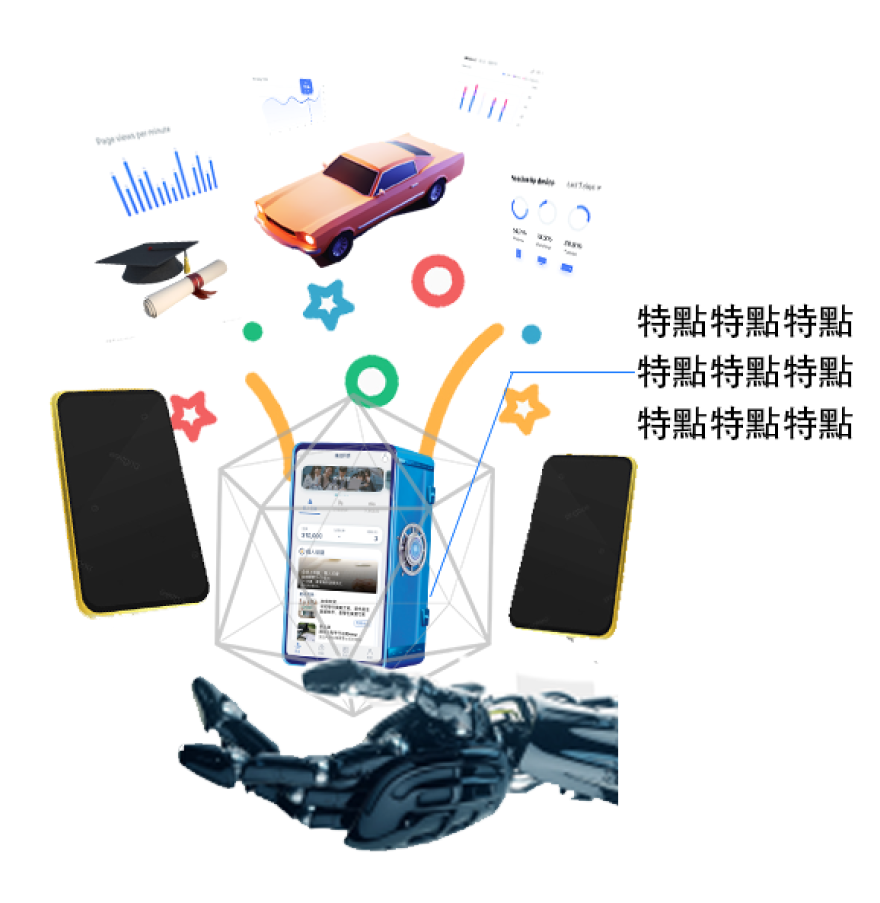
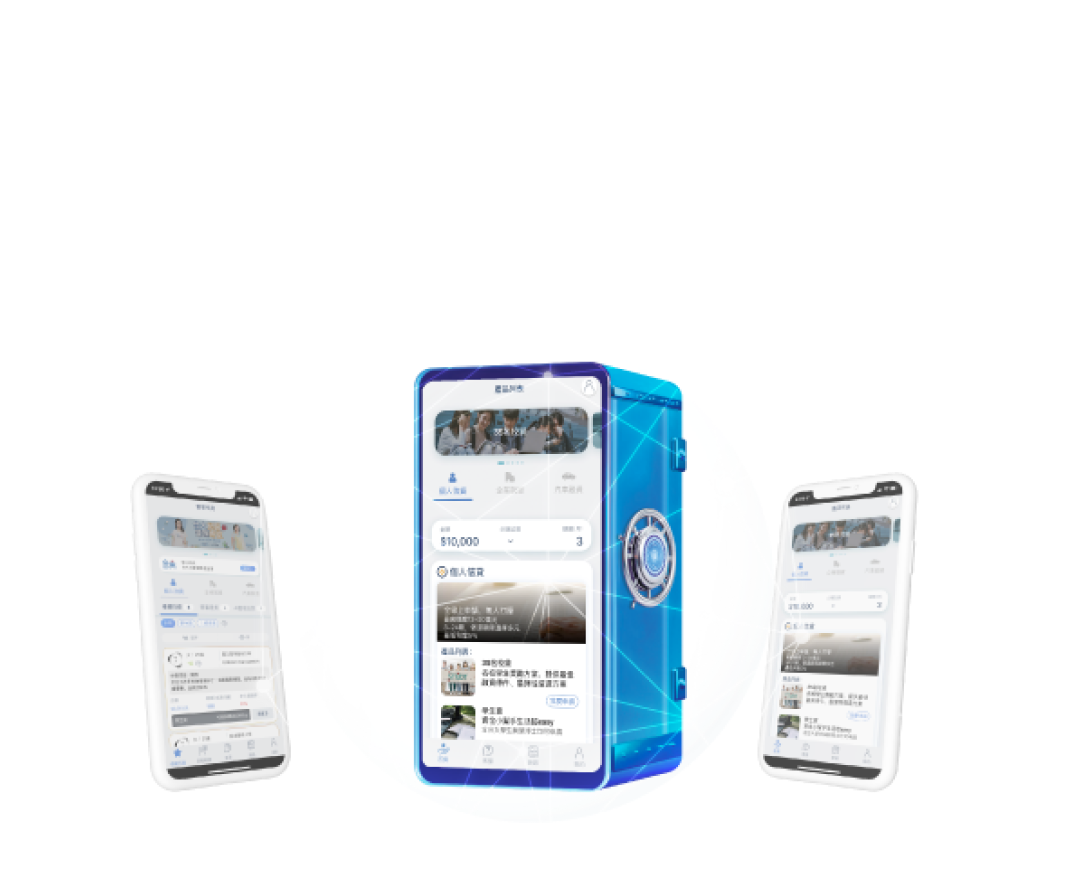
feature: 補上背景

diff --git a/resources/js/frontdesk/pages/alesis-index.vue b/resources/js/frontdesk/pages/alesis-index.vue
@@ -17,18 +17,6 @@
           </div>
           <div class="product-item">
             <div class="card">
-              <div class="card-title">3S名校貸</div>
-              <div class="card-content">
-                <div class="card-subtitle">額度最高18萬</div>
-                <div class="card-image p2"></div>
-                <router-link to="/3s-college-loan" class="card-link">
-                  了解更多
-                </router-link>
-              </div>
-            </div>
-          </div>
-          <div class="product-item">
-            <div class="card">
               <div class="card-title">資訊工程師貸</div>
               <div class="card-content">
                 <div class="card-subtitle">額度最高30萬</div>
@@ -63,7 +51,7 @@
               </div>
             </div>
           </div>
-          <div class="product-item">
+          <!-- <div class="product-item">
             <div class="card">
               <div class="card-title">信保專案(銀行)</div>
               <div class="card-content">
@@ -74,7 +62,7 @@
                 </div>
               </div>
             </div>
-          </div>
+          </div> -->
           <div class="product-item">
             <div class="card">
               <div class="card-title">企業貸款</div>
@@ -118,7 +106,7 @@
             集人才，打造綠色金融科技環境，善用AI技術首創自動化風控審核，無人化P2P借貸融資系統。
           </div>
         </div>
-        <div class="block-title mt-3">
+        <div class="block-title">
           年輕人的金融科技平台、簡單快速安全隱私、創造金融新生態
         </div>
         <div class="block-info d-block">
@@ -131,6 +119,9 @@
             為輔助，提供最人性友善流暢的APP使用者介面，全程AI無人化自動風控審核，運用金融科技技術加快速度、提高安全、保護隱私，提供最有溫度的社群金融服務，讓社會資金運用更便利快速有效率，創造全新的金融生態圈。
           </span>
         </div>
+      </div>
+      <div class="wave">
+        <img src="@/asset/images/index/bg-white-wave.svg" alt="" />
       </div>
     </div>
     <div class="index-loan section">
@@ -162,26 +153,33 @@
       </div>
     </div>
     <div class="index-service section">
+      <div class="wave reverse">
+        <img src="@/asset/images/index/bg-white-wave.svg" alt="" />
+      </div>
       <div class="block-content">
         <div class="block-title">我們的服務</div>
         <div class="block-info">提供多元個人及企業融資貸款管道平台</div>
         <div class="row no-gutters service-imgs">
           <img id="service-1" src="@/asset/images/index/service-1.png" />
+          <img id="service-2" src="@/asset/images/index/service-2.png" />
           <div class="service-groups">
             <div class="group">
-              <div class="item">簡單</div>
-              <div class="item">快速</div>
-              <div class="item">方便</div>
+              <div class="item">競標即時撮合</div>
+              <div class="item">無卡分期系統</div>
+              <div class="item">債權轉讓</div>
+              <div class="item">貸後管理系統</div>
             </div>
             <div class="group">
-              <div class="item">安全</div>
-              <div class="item">便利</div>
-              <div class="item">輕鬆</div>
+              <div class="item">分秒計息系統</div>
+              <div class="item">虛擬帳戶金流管理系統</div>
+              <div class="item">線上對保撥款系統</div>
+              <div class="item">自動核貸上架系統</div>
             </div>
             <div class="group">
-              <div class="item">特點</div>
-              <div class="item">特點</div>
-              <div class="item">特點</div>
+              <div class="item">風控信評額度系統</div>
+              <div class="item">反洗錢系統</div>
+              <div class="item">關係人歸戶系統</div>
+              <div class="item">反詐欺系統</div>
             </div>
           </div>
         </div>
@@ -298,7 +296,7 @@
               <div class="card">
                 <div class="card-body">
                   <div class="card-cover">
-                    <img src="@/asset/images/index/handshake2.png" alt="" />
+                    <img src="@/asset/images/index/link-1.png" alt="" />
                   </div>
                   <div class="card-title">獲得多家銀行搶先合作</div>
                   <div class="card-divider"></div>
@@ -310,7 +308,7 @@
               <div class="card">
                 <div class="card-body">
                   <div class="card-cover">
-                    <img src="@/asset/images/index/handshake2.png" alt="" />
+                    <img src="@/asset/images/index/dating-app-1.png" alt="" />
                   </div>
                   <div class="card-title">最年輕的借款APP</div>
                   <div class="card-divider"></div>
@@ -322,7 +320,7 @@
               <div class="card">
                 <div class="card-body">
                   <div class="card-cover">
-                    <img src="@/asset/images/index/handshake2.png" alt="" />
+                    <img src="@/asset/images/index/planet-earth-1.png" alt="" />
                   </div>
                   <div class="card-title">ESG綠色金融科技平台</div>
                   <div class="card-divider"></div>
@@ -370,8 +368,8 @@
       <div class="charity">
         <div class="block-content">
           <div class="block-title">慈善公益</div>
-          <div class="row no-gutters">
-            <div class="col-6">
+          <div class="row no-gutters justify-content-center">
+            <div class="col-5">
               <div class="info-title">愛心100，捐款100</div>
               <div class="info-content">
                 攜手台大兒童醫院、台大兒童健康基金會、愛心大使張鈞甯、愛心主持鍾欣凌，聯合勸募樂捐幫助台灣弱勢兒童，維護孩子們的健康
@@ -388,7 +386,12 @@
                 ></iframe>
               </div>
             </div>
-            <div class="col-6"></div>
+            <div class="col-5 d-flex justify-content-center">
+              <img
+                src="@/asset/images/index/Group1251.png"
+                style="height: 420px"
+              />
+            </div>
           </div>
         </div>
       </div>
@@ -837,6 +840,19 @@ export default {
   max-width: 1400px;
   margin: 0 auto;
 }
+.wave {
+  position: absolute;
+  bottom: 0;
+  left: -30px;
+  height: 100px;
+  overflow: hidden;
+  &.reverse {
+    top: 0;
+    left: initial;
+    right: -30px;
+    transform: rotate(180deg);
+  }
+}
 .index-intro {
   background-image: url('~images/index/index-header-bg.png');
   background-position: center;
@@ -856,7 +872,7 @@ export default {
       display: grid;
       grid-template-rows: 160px 160px;
       gap: 20px;
-      grid-template-columns: repeat(4, 230px);
+      grid-template-columns: repeat(3, 230px);
     }
     .product-item {
       .card {
@@ -958,14 +974,20 @@ export default {
   }
 }
 .index-concept {
-  padding: 40px;
+  position: relative;
+  padding: 80px;
   background-color: #036eb7;
+  background-image: url('~images/index/concept-bg.png');
+  background-repeat: no-repeat;
+  background-size: cover;
+  height: 1044px;
   .block-content {
     padding: 0 50px;
     .block-title {
       font-weight: 500;
       font-size: 40px;
       line-height: 81px;
+      margin: 40px 0;
       color: #e6f5ff;
       text-align: center;
     }
@@ -1007,7 +1029,12 @@ export default {
   }
 }
 .index-loan {
+  position: relative;
   padding: 70px 70px;
+  background-image: url('~images/index/index-phone-bg.png');
+  background-repeat: no-repeat;
+  background-size: cover;
+  height: 1200px;
   .block-title {
     color: #036eb7;
     font-size: 32px;
@@ -1072,41 +1099,64 @@ export default {
     filter: alpha(opacity=20);
   }
   20% {
-    right: 125px;
+    right: 145px;
     opacity: 1;
     filter: alpha(opacity=0);
   }
   45% {
-    right: 125px;
+    right: 145px;
     opacity: 0;
     filter: alpha(opacity=0);
   }
 }
+@keyframes service-img {
+  0% {
+    margin: 30px auto;
+  }
+  50% {
+    margin: 0 auto;
+  }
+  100% {
+    margin: 30px auto;
+  }
+}
 .index-service {
+  position: relative;
   padding: 70px 70px;
+  background: linear-gradient(180.82deg, #036eb7 0.7%, #ffffff 92.77%);
   .block-title {
-    color: #036eb7;
+    color: #fff;
     font-size: 32px;
     text-align: center;
   }
   .block-info {
-    color: #036eb7;
+    color: #fff;
     font-size: 20px;
     margin-top: 24px;
     opacity: 0.64;
     text-align: center;
   }
   .service-imgs {
-    padding: 35px 0;
+    padding: 35px 0 140px;
     position: relative;
-    height: 900px;
+    overflow: hidden;
     #service-1 {
+      animation: service-img 4s linear infinite;
       display: block;
-      margin: auto;
+      margin: 30px auto;
+      height: 500px;
+    }
+    #service-2 {
+      position: absolute;
+      display: block;
+      margin: 0 auto;
+      bottom: -111px;
+      left: 400px;
+      height: 400px;
     }
   }
   .service-groups {
-    margin-top: 300px;
+    margin-top: 200px;
     .group {
       right: -300px;
       position: absolute;
@@ -1116,11 +1166,12 @@ export default {
     }
     .group .item {
       font-size: 20px;
-      padding: 5px 50px;
+      padding: 6px 30px;
       margin-bottom: 10px;
-      border: 1.5px solid #036eb7;
-      border-radius: 12px;
-      color: #393939;
+      background: #fff;
+      border-radius: 6px;
+      text-align: center;
+      color: #083a6e;
     }
     .group:nth-child(1) {
       animation-delay: 0s;
@@ -1566,7 +1617,7 @@ export default {
     color: #023d64;
   }
   .info-content {
-      margin: 12px 0 32px;
+    margin: 12px 0 32px;
     font-size: 18px;
     line-height: 26px;
     color: #023d64;
